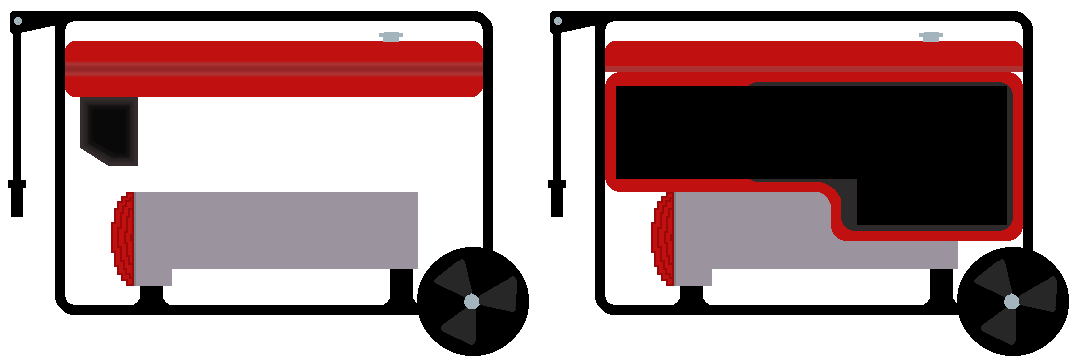
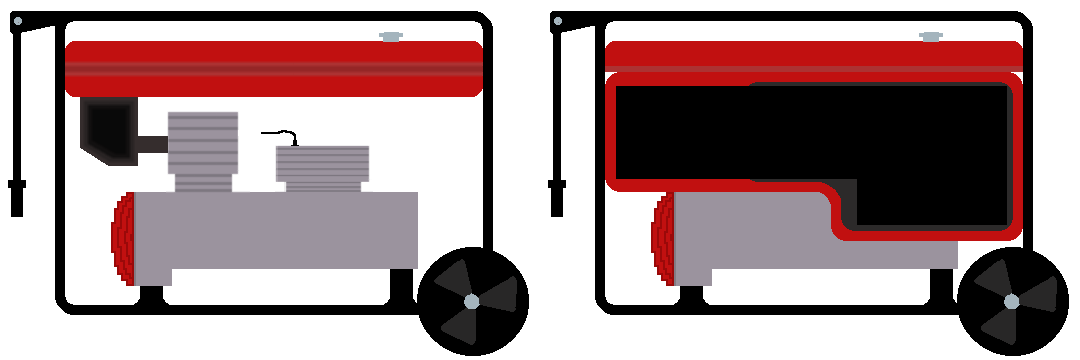
Worked a lot on sparkplug state. Need two more steps to be complete

Changed region(s): [[0.1222, 0.3056, 0.3667, 0.55]]

diff --git a/src/prefabs/generator.js b/src/prefabs/generator.js
@@ -24,6 +24,11 @@ class Generator extends Phaser.GameObjects.Sprite {
 
         //Create drag function so each gameobject will follow mouse movement
         scene.input.on('drag', (pointer, gameObject, dragX, dragY) => {
+
+            if(gameObject === this.socketWrench && this.sparkPlugStep >= 2) {
+                return;
+            }
+
             gameObject.x = dragX;
             gameObject.y = dragY;
         });
@@ -57,7 +62,7 @@ class Generator extends Phaser.GameObjects.Sprite {
         //varaibles needed for progressRing 
         this.isHoldingKey = false;
         this.holdProgress = 0;
-        this.holdDuration = 6000;
+        this.holdDuration = 500; //6000
         this.startupComplete = false;
         this.ranOnce = false;
         this.startupSound = this.scene.sound.add('startup');
@@ -88,6 +93,7 @@ class Generator extends Phaser.GameObjects.Sprite {
             }
         })
 
+
         //create all images for generator and parts
         this.generatorImage = this.scene.add.sprite(width / 2, 50, 'generator', 0).setOrigin(.5, 0);
         this.generatorCover = this.scene.add.sprite(width / 2, 50, 'generatorCover').setOrigin(.5, 0).setDepth(100);
@@ -100,7 +106,7 @@ class Generator extends Phaser.GameObjects.Sprite {
         this.airFilterDirty = this.scene.add.sprite(this.generatorImage.x -161, this.generatorImage.y + 105, 'airFilter', 2).setInteractive().setOrigin(0.5, 0);
         this.airFilterClean = this.scene.add.sprite(550, 490, 'airFilter', 0).setInteractive().setOrigin(0.5, 0);
         //create targets needs to show where player needs to place x item
-        this.targetairFilterDirty = this.scene.add.rectangle(550, 550, 60, 40, 0xffff000, 0.25).setVisible(false);
+        this.targetairFilterDirty = this.scene.add.rectangle(550, 550, 60, 40, 0xffff00, 0.25).setVisible(false);
         this.targetairFilterClean = this.scene.add.rectangle(this.generatorImage.x - 161, this.generatorImage.y + 125, 60, 40, 0xffff000, 0.25).setVisible(false);
 
         //Air filter cover
@@ -109,14 +115,42 @@ class Generator extends Phaser.GameObjects.Sprite {
         this.targetairFilterCoverOFF = this.scene.add.rectangle(550, 625, 70, 80, 0xffff000, 0.25).setVisible(false);
         this.targetairFilterCoverON = this.scene.add.rectangle(this.generatorImage.x - 159, this.generatorImage.y + 91, 70, 80, 0xffff000, 0.25).setOrigin(0.5, 0).setVisible(false);
 
+
+        // varaibles to turn wrench
+        this.turningWrench = false;
+        this.lastWrenchAngle = 0;
+        this.totalWrenchRotation = 0;
+        this.wrenchDirection = null;
+
         // Create all images for sparkplug state
-        this.sparkplug = this.scene.add.sprite(100, 100, 'sparkplug', 0).setInteractive();
+        this.sparkplug = this.scene.add.sprite(625, 525, 'sparkplug', 0).setInteractive();
+        this.targetsparkplug = this.scene.add.rectangle(525, 180, 60, 30, 0xffff00, 0.25).setVisible(false);
+        this.sparkplugDirty = this.scene.add.sprite(525, 180, 'sparkplug', 2).setInteractive().setVisible(false);
+        this.targetsparkplugDirty = this.scene.add.rectangle(625, 575, 60, 30, 0xffff00, 0.25).setVisible(false);
+        this.sparkplugCover = this.scene.add.sprite(530, 183, 'sparkplugCover', 0).setInteractive();
+        this.socketWrench = this.scene.add.sprite(800, 100, 'socketWrench', 0).setInteractive().setOrigin(0.15, 0.1);
+        this.targetsocketWrench = this.scene.add.rectangle(510, 183, 20, 20, 0xffff00, 0.25).setVisible(false);
+
+        //Input for turning socket wrench
+        this.socketWrench.on('pointerdown', (pointer) => {
+            if(this.sparkPlugStep === 2 || this.sparkPlugStep === 5) {
+
+                this.turningWrench = true;
+                this.lastWrenchAngle = Phaser.Math.Angle.Between(this.socketWrench.x, this.socketWrench.y, pointer.x, pointer.y);
+            }
+        });
+
+        this.scene.input.on('pointerup', () => {
+            this.turningWrench = false;
+        });
         
 
 
     }
 
     update(exhaustemitter) {
+
+        console.log(this.sparkPlugStep);
         
         //Checks if player is holding key and startup has not been completed. Will call drawProgressCircle to draw progessRing
         if(this.isHoldingKey && !this.startupComplete) {
@@ -137,6 +171,60 @@ class Generator extends Phaser.GameObjects.Sprite {
             }
         } else {
             exhaustemitter.emitting = false;
+        }
+
+        if(this.turningWrench && this.sparkPlugStep === 2) {
+            let pointer = this.scene.input.activePointer;
+
+            let currentAngle = Phaser.Math.Angle.Between(this.socketWrench.x, this.socketWrench.y, pointer.x, pointer.y);
+
+            let delta = currentAngle - this.lastWrenchAngle;
+
+            delta = Phaser.Math.Angle.Wrap(delta);
+
+            if(this.sparkPlugStep === 2 && this.wrenchDirection === 'ccw') {
+        
+                if(delta < 0) {
+                    this.totalWrenchRotation += Math.abs(delta);
+                }
+
+                this.socketWrench.rotation += delta;
+
+                if(this.totalWrenchRotation >= Math.PI * 2) {
+                    this.turningWrench = false;
+                    this.sparkPlugStep++;
+                    console.log("Socket wrench loosening complete");
+                    this.socketWrench.stop();
+                    this.socketWrench.setFrame(0);
+                    this.scene.checklist.completeTask(2);
+                    this.sparkplugDirty.setVisible(true);
+                    this.sparkplugDirty.play('sparkplugDirtyBlink');
+                    this.scene.input.setDraggable(this.sparkplugDirty);
+                    this.targetsparkplugDirty.setVisible(true);
+                }
+            } else if(this.sparkPlugStep === 5 && this.wrenchDirection === 'cw') {
+
+                if(delta > 0) {
+                    this.totalWrenchRotation += Math.abs(delta);
+                    this.socketWrench.rotation += delta;
+                }
+
+                if(this.totalWrenchRotation >= Math.PI * 2) {
+                    this.turningWrench = false;
+                    this.totalWrenchRotation = 0;
+                    this.sparkPlugStep++;
+                    console.log('Socket wrench tightening complete');
+                    this.socketWrench.stop();
+                    this.socketWrench.setFrame(0);
+                    this.scene.checklist.completeTask(5);
+
+                    this.sparkplugCover.setInteractive();
+                }
+
+            }
+
+            this.lastWrenchAngle = currentAngle;
+
         }
     }
 
@@ -343,9 +431,106 @@ class SparkPlugState extends State {
     enter(scene, generator){
         console.log("Enter sparkPlugState");
 
+        generator.sparkplugCover.play('sparkplugCoverBlink');
+
+        //Add new tasks to the task list
+        scene.checklist.setTasks([
+            'Remove spark plug cover',
+            'Move socket wrench over spark plug',
+            'Rotate socket wrench counter clock wise',
+            'Remove old spark plug',
+            'Replace spark plug',
+            'Rotate socket wrench clock wise',
+            'Replace spark plug cover'
+        ]);
+
+        generator.sparkplugCover.once('pointerdown', () => {
+            scene.tweens.add({
+                targets: generator.sparkplugCover,
+                x: 554,
+                duration: 250,
+                ease: 'Power2',
+                onComplete: () => {
+                    generator.sparkplugCover.x = 555;
+                    generator.sparkplugCover.disableInteractive();
+                    scene.checklist.completeTask(0);
+                    generator.totalWrenchRotation = 0;
+                    generator.turningWrench = false;
+                    generator.wrenchDirection = 'ccw';
+                    generator.sparkplugCover.stop();
+                    generator.sparkplugCover.setFrame(0);
+                    generator.sparkPlugStep++;
+                    generator.socketWrench.play('socketWrenchBlink');
+                    scene.input.setDraggable(generator.socketWrench);
+                    generator.targetsocketWrench.setVisible(true);
+                    console.log('Spark plug cover removed');
+                }
+            });
+        });
+
+    }
+
+    handleDrop(gameObject, generator) {
+
+        if(gameObject === generator.socketWrench && generator.sparkPlugStep === 1) {
+            if(Phaser.Geom.Intersects.RectangleToRectangle(generator.socketWrench.getBounds(), generator.targetsocketWrench.getBounds())) {
+                generator.socketWrench.x = generator.targetsocketWrench.x;
+                generator.socketWrench.y = generator.targetsocketWrench.y;
+                //generator.socketWrench.stop();
+                //generator.socketWrench.setFrame(0);
+                generator.targetsocketWrench.setVisible(false);
+                generator.scene.input.setDraggable(generator.socketWrench, false);
+                generator.sparkPlugStep++;
+                console.log("Wrench placed");
+            }
+            
+        }
+
+        if(gameObject === generator.sparkplugDirty) {
+            if(Phaser.Geom.Intersects.RectangleToRectangle(generator.sparkplugDirty.getBounds(), generator.targetsparkplugDirty.getBounds())) {
+                generator.sparkplugDirty.x = generator.targetsparkplugDirty.x;
+                generator.sparkplugDirty.y = generator.targetsparkplugDirty.y;
+                generator.sparkplugDirty.stop();
+                generator.sparkplugDirty.setFrame(2);
+                generator.sparkplugDirty.disableInteractive();
+                generator.scene.input.setDraggable(generator.sparkplug);
+                generator.targetsparkplugDirty.setVisible(false);
+                generator.sparkPlugStep++;
+                console.log("Spark plug dirty placed");
+                generator.sparkplug.play('sparkplugBlink');
+                generator.targetsparkplug.setVisible(true);
+            }
+        }
+
+        if(gameObject === generator.sparkplug) {
+            if(Phaser.Geom.Intersects.RectangleToRectangle(generator.sparkplug.getBounds(), generator.targetsparkplug.getBounds())) {
+                generator.sparkplug.setVisible(false);
+                generator.scene.input.setDraggable(generator.sparkplug);
+                generator.targetsparkplug.setVisible(false);
+                generator.socketWrench.setInteractive();
+                generator.sparkPlugStep++;
+                console.log("Spark plug clean placed");
+                generator.socketWrench.play('socketWrenchBlink');
+                generator.totalWrenchRotation = 0;
+                generator.turningWrench = false;
+                generator.wrenchDirection = 'cw';
+
+            }
+        }
+
     }
 
     execute(scene, generator) {
+
+        if(generator.sparkPlugStep === 2) {
+            scene.checklist.completeTask(1);
+        } else if (generator.sparkPlugStep === 3) {
+            scene.checklist.completeTask(2);
+        } else if (generator.sparkPlugStep === 4) {
+            scene.checklist.completeTask(3);
+        } else if (generator.sparkPlugStep === 5) {
+            scene.checklist.completeTask(4);
+        }
 
     }
 }

diff --git a/src/scenes/postcardGame.js b/src/scenes/postcardGame.js
@@ -15,6 +15,8 @@ class PostcardGame extends Phaser.Scene {
 
         //Sparkplug
         this.load.spritesheet('sparkplug', '/Sparkplug.png', {frameWidth: 60, frameHeight: 30});
+        this.load.spritesheet('sparkplugCover', '/SparkplugCover.png', {frameWidth: 30, frameHeight: 10});
+        this.load.spritesheet('socketWrench', 'SocketWrench.png', {frameWidth: 26, frameHeight: 106});
 
         this.load.path = "./assets/sounds/"
         this.load.audio('startup', 'startupSound.mp3');
@@ -22,6 +24,7 @@ class PostcardGame extends Phaser.Scene {
 
     create() {
 
+        /*
         //Blinking animations for...
 
         //Air filter Cover
@@ -63,6 +66,30 @@ class PostcardGame extends Phaser.Scene {
             frameRate: 4,
             repeat: -1
         });
+
+        //Sparkplug blink
+        this.anims.create({
+            key: 'sparkplugCoverBlink',
+            frames: this.anims.generateFrameNumbers('sparkplugCover', {start: 0, end: 1}),
+            frameRate: 4,
+            repeat: -1
+        });
+        */
+
+        let animsName = ['airFilterCoverBlink', 'generatorCoverBlink', 'airFilterCleanBlink', 'airFilterDirtyBlink', 'sparkplugBlink', 'sparkplugDirtyBlink', 'sparkplugCoverBlink', 'socketWrenchBlink'];
+        let animsString = ['airFilterCover', 'generatorCover', 'airFilter', 'airFilter', 'sparkplug', 'sparkplug', 'sparkplugCover', 'socketWrench'];
+        let animsFrames = [[0, 1], [0, 1], [0, 1], [2, 3], [0, 1], [2, 3], [0, 1], [0, 1]];
+
+        for(let i = 0; i < animsName.length; i++) {
+
+            this.anims.create({
+                key: animsName[i],
+                frames: this.anims.generateFrameNumbers(animsString[i], {start: animsFrames[i][0], end: animsFrames[i][1]}),
+                frameRate: 4,
+                repeat: -1
+            });
+
+        }
 
         //Particle effect for generator exhaust
         this.exhaustemitter = this.add.particles(775, 150, 'exhaust', {
